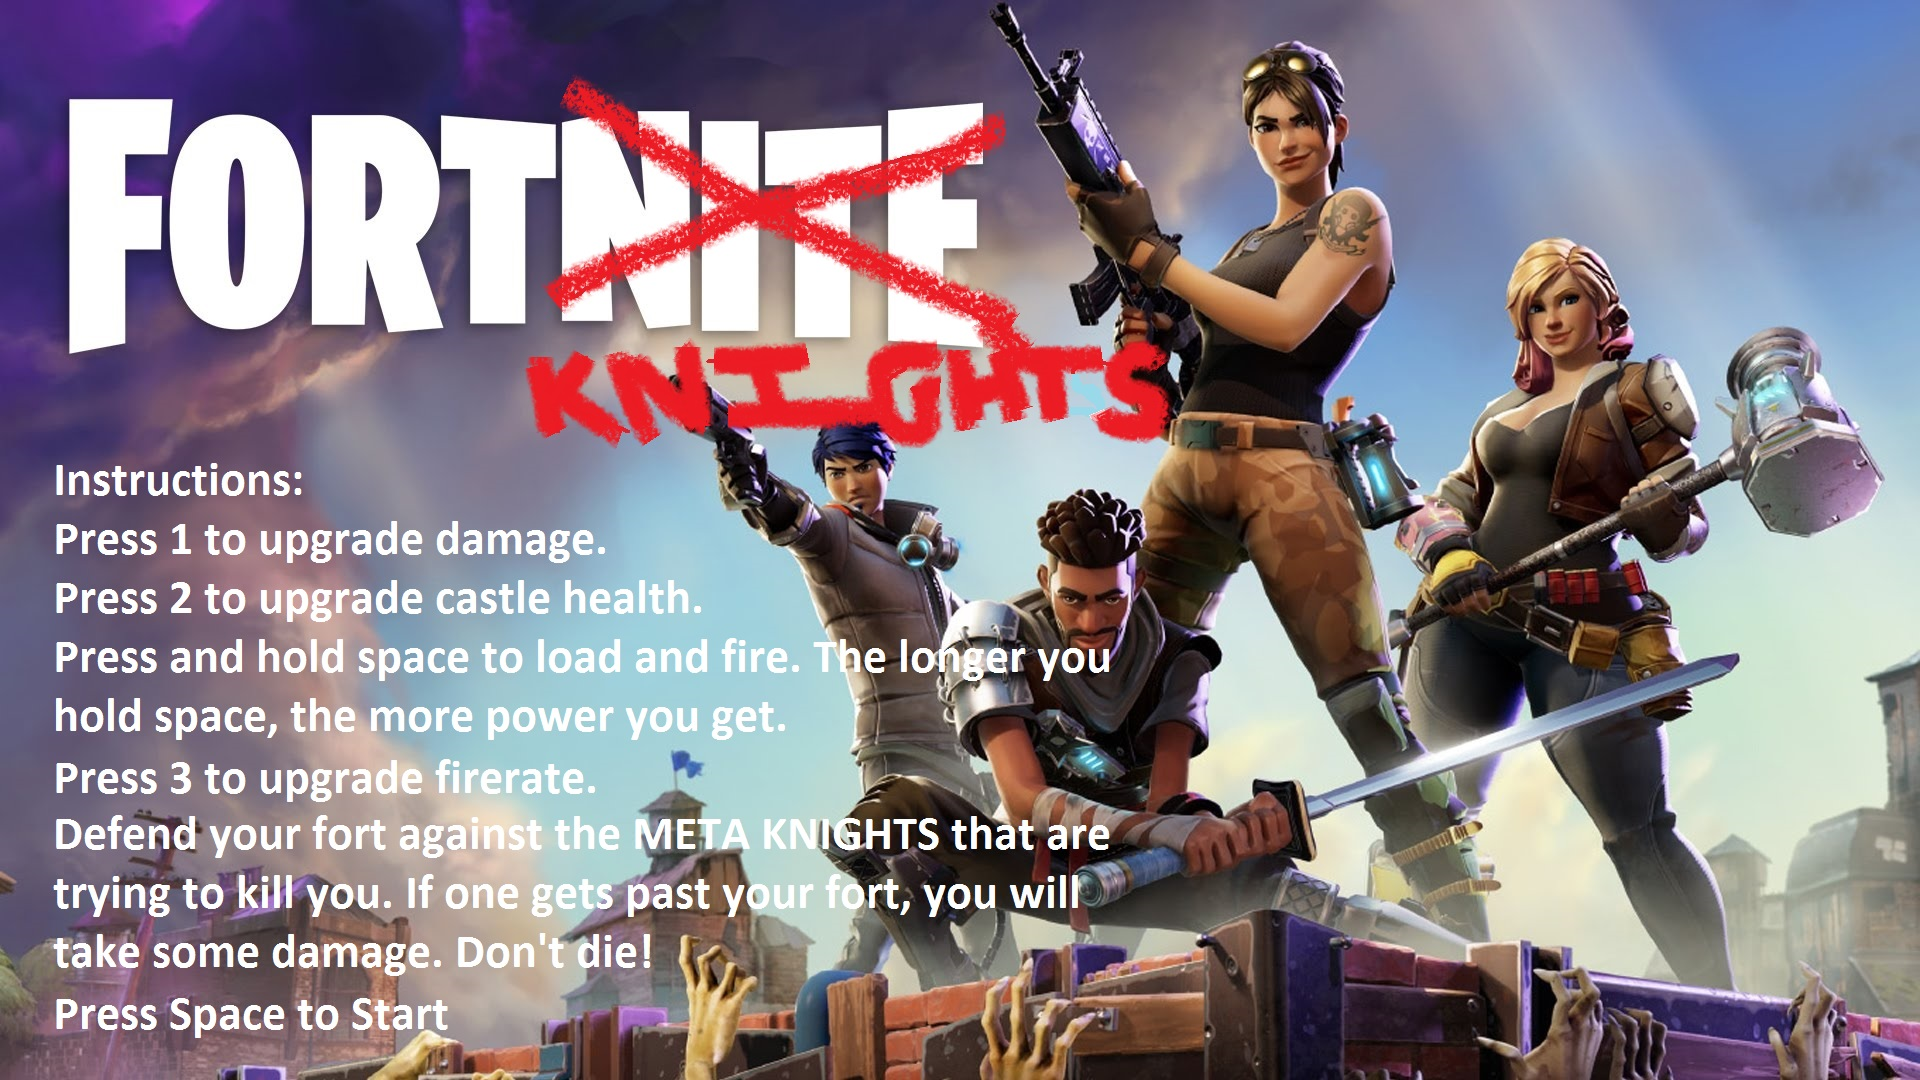
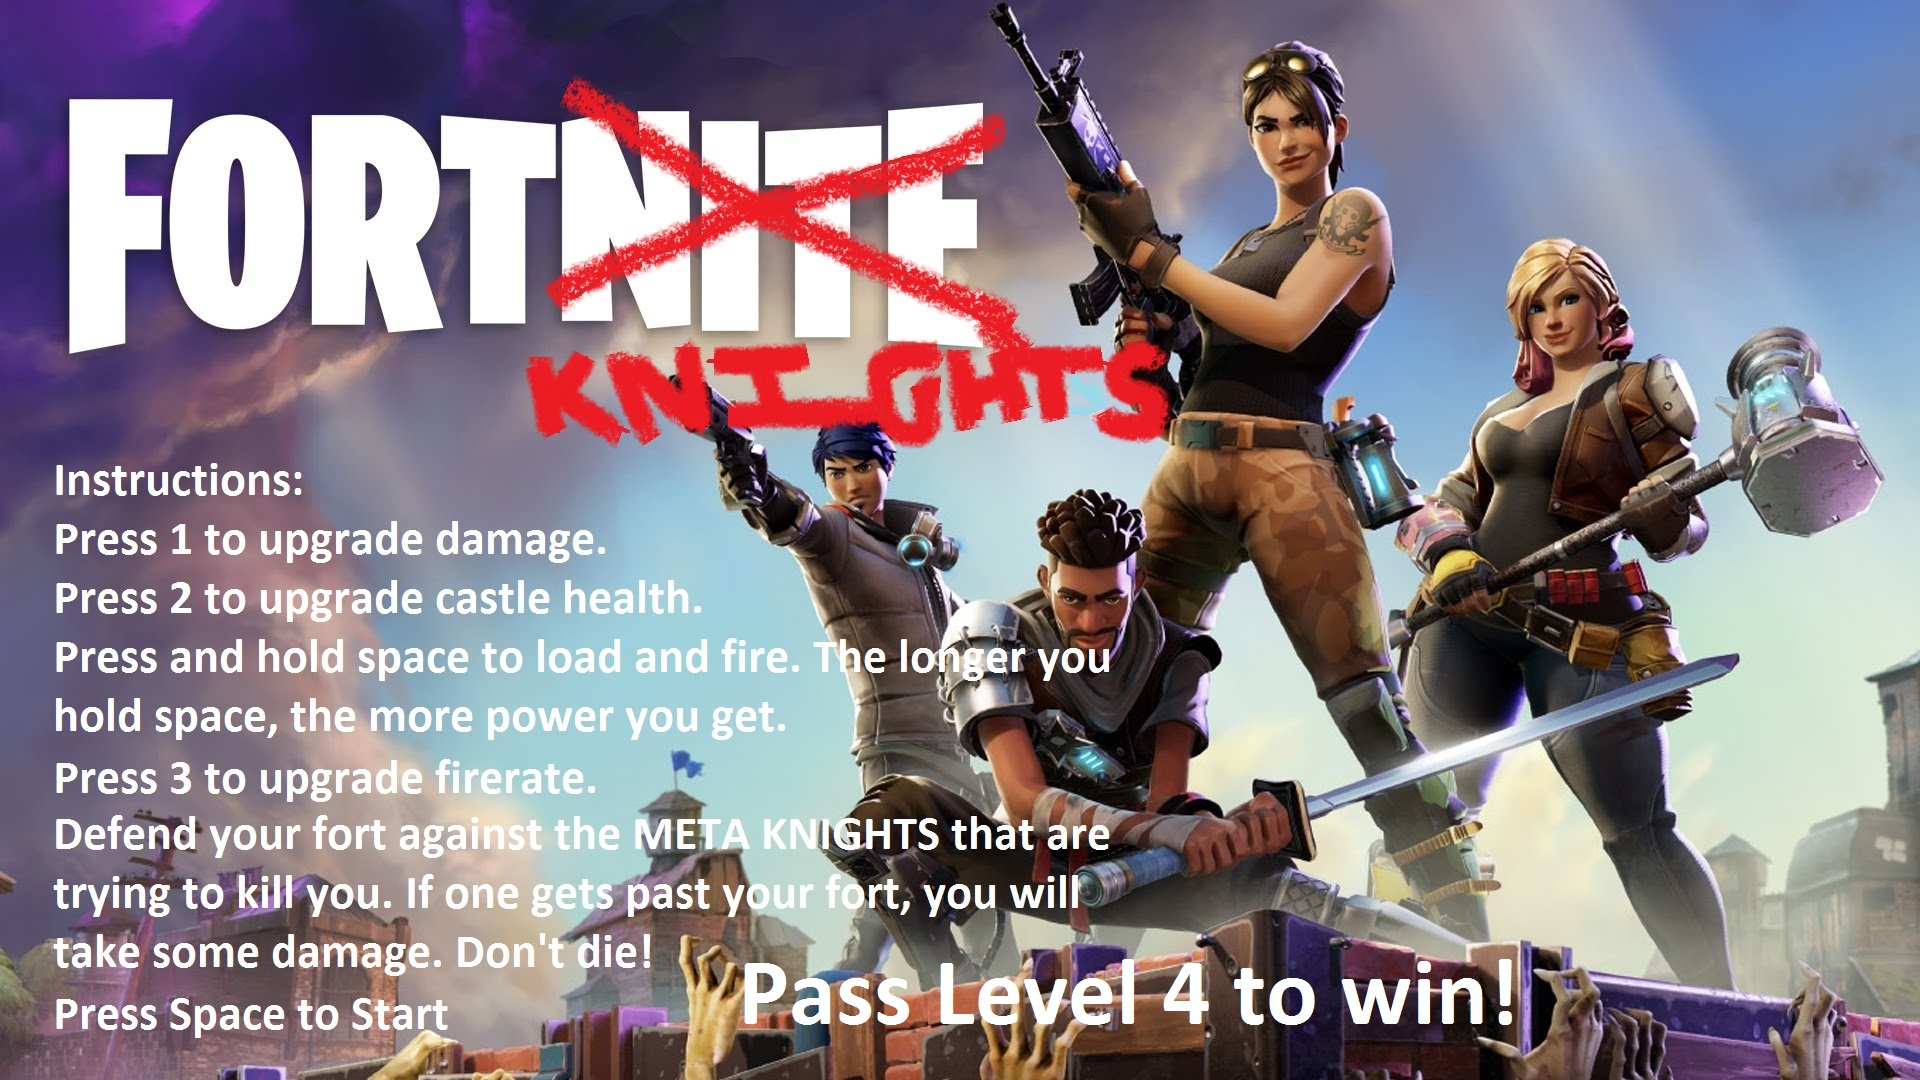
Add files via upload

Changed region(s): [[0.375, 0.8861, 0.8125, 0.9472]]

diff --git a/Battleground.java b/Battleground.java
@@ -46,11 +46,13 @@ public class Battleground extends Canvas implements KeyListener, Runnable
 	private boolean title = true;
 	private TitleScreen titlescreen;
 	private LoseScreen losescreen;
+	private WinScreen winscreen;
 	
 	public Battleground()
 	{
 		titlescreen = new TitleScreen();
 		losescreen = new LoseScreen();
+		winscreen = new WinScreen();
 		setBackground(Color.black);
 		keys = new boolean[5];
 		bow = new Bow(600,200,0);
@@ -61,7 +63,7 @@ public class Battleground extends Canvas implements KeyListener, Runnable
 		level = 0;
 		score = 0;
 		reload = 0;
-		money = 100000000;
+		money = 1000;
 		damage = 50;
 		health = 100;
 		fort = new Fort(health);
@@ -109,6 +111,10 @@ public class Battleground extends Canvas implements KeyListener, Runnable
 		else if (fort.getHealth() <= 0) {
 			losescreen.paint(graphToBack);
 			twoDGraph.drawImage(back,null,0,0);
+		}
+		else if (level >= 5) {
+			winscreen.paint(graphToBack);
+			twoDGraph.drawImage(back, null, 0, 0);
 		}
 		else {
 		graphToBack.setColor(Color.BLUE);
@@ -206,7 +212,7 @@ public class Battleground extends Canvas implements KeyListener, Runnable
 
 	public void newLevel(int level) {
 		for (int i = 0; i < 10+level*5; i++) {
-			knights.add(new Knight(-100*i,350,1,100+20*level,100+20*level));
+			knights.add(new Knight(-(100-10*level)*i,350,1,100+20*level,100+20*level));
 		}
 		fort.setHealth(fort.getMaxHealth());
 		
@@ -257,8 +263,6 @@ public class Battleground extends Canvas implements KeyListener, Runnable
 		}
 		if (e.getKeyCode() == KeyEvent.VK_SPACE)
 		{
-			System.out.println(knights.size());
-			System.out.println(knights.toString());
 			keys[4] = false;
 			if (reload < 0) {
 				timeReleased = System.currentTimeMillis();

diff --git a/WinScreen.java b/WinScreen.java
@@ -1,0 +1,44 @@
+package fortknights;
+
+import java.awt.Color;
+import java.awt.Graphics;
+import java.awt.Graphics2D;
+import java.awt.Canvas;
+import java.awt.event.ActionEvent;
+import java.awt.event.KeyListener;
+import java.awt.event.MouseEvent;
+import java.awt.event.KeyEvent;
+import static java.lang.Character.*;
+import java.awt.image.BufferedImage;
+import java.io.File;
+import java.awt.event.ActionListener;
+import java.util.ArrayList;
+import javax.imageio.ImageIO;
+import java.awt.Image;
+import java.util.Scanner;
+
+public class WinScreen{
+	
+	private boolean start;
+	private Image image;
+	public WinScreen() {
+	}
+	
+	public void paint(Graphics window) {
+		try{
+			image = ImageIO.read(new File(System.getProperty("user.dir") + "\\src\\fortknights\\win.png"));
+		}
+		catch (Exception e) {
+			System.out.println("420 blaze it!");
+		}
+		window.drawImage(image, 0, 0, 800, 560, null);
+		
+	}
+	public boolean getStart() {
+		return start;
+	}
+	public void setStart(boolean b) {
+		start = b;
+	}
+}
+

diff --git a/Knight.java b/Knight.java
@@ -29,7 +29,7 @@ public class Knight extends MovingThing
 		{
 			super(x, y);
 			speed=s;
-			healthbar = new HealthBar(getX(),getY()-10,50,10,1.0,s,Color.green);
+			healthbar = new HealthBar(getX()+15,getY()-10,50,10,1.0,s,Color.green);
 			hp = h;
 			maxhp = maxh;
 			try
@@ -38,7 +38,6 @@ public class Knight extends MovingThing
 			}
 			catch(Exception e)
 			{
-				System.out.println("402 Glaze it!");
 			}
 		}
 

diff --git a/Ammo.java b/Ammo.java
@@ -30,7 +30,6 @@ public class Ammo extends MovingThing{
 		}
 		catch(Exception e)
 		{
-			System.out.println("420 Glaze it!");
 		}
 	}
 	public void setSpeed(double hs, double vs) {
@@ -61,7 +60,6 @@ public class Ammo extends MovingThing{
 	}
 	@Override
 	public void setSpeed(int s) {
-		System.out.println("420 Blaze it!");
 	}
 	@Override
 	public int getSpeed() {

diff --git a/Bow.java b/Bow.java
@@ -28,7 +28,6 @@ public class Bow extends MovingThing{
 		}
 		catch(Exception e)
 		{
-			System.out.println("420 Glaze it!");
 		}
 	}
 	public void setSpeed(int s) {

diff --git a/Fort.java b/Fort.java
@@ -28,7 +28,6 @@ public class Fort {
 		}
 		catch(Exception e)
 		{
-			System.out.println("402 Glaze it!");
 		}
 	}
 	public void draw( Graphics window )
